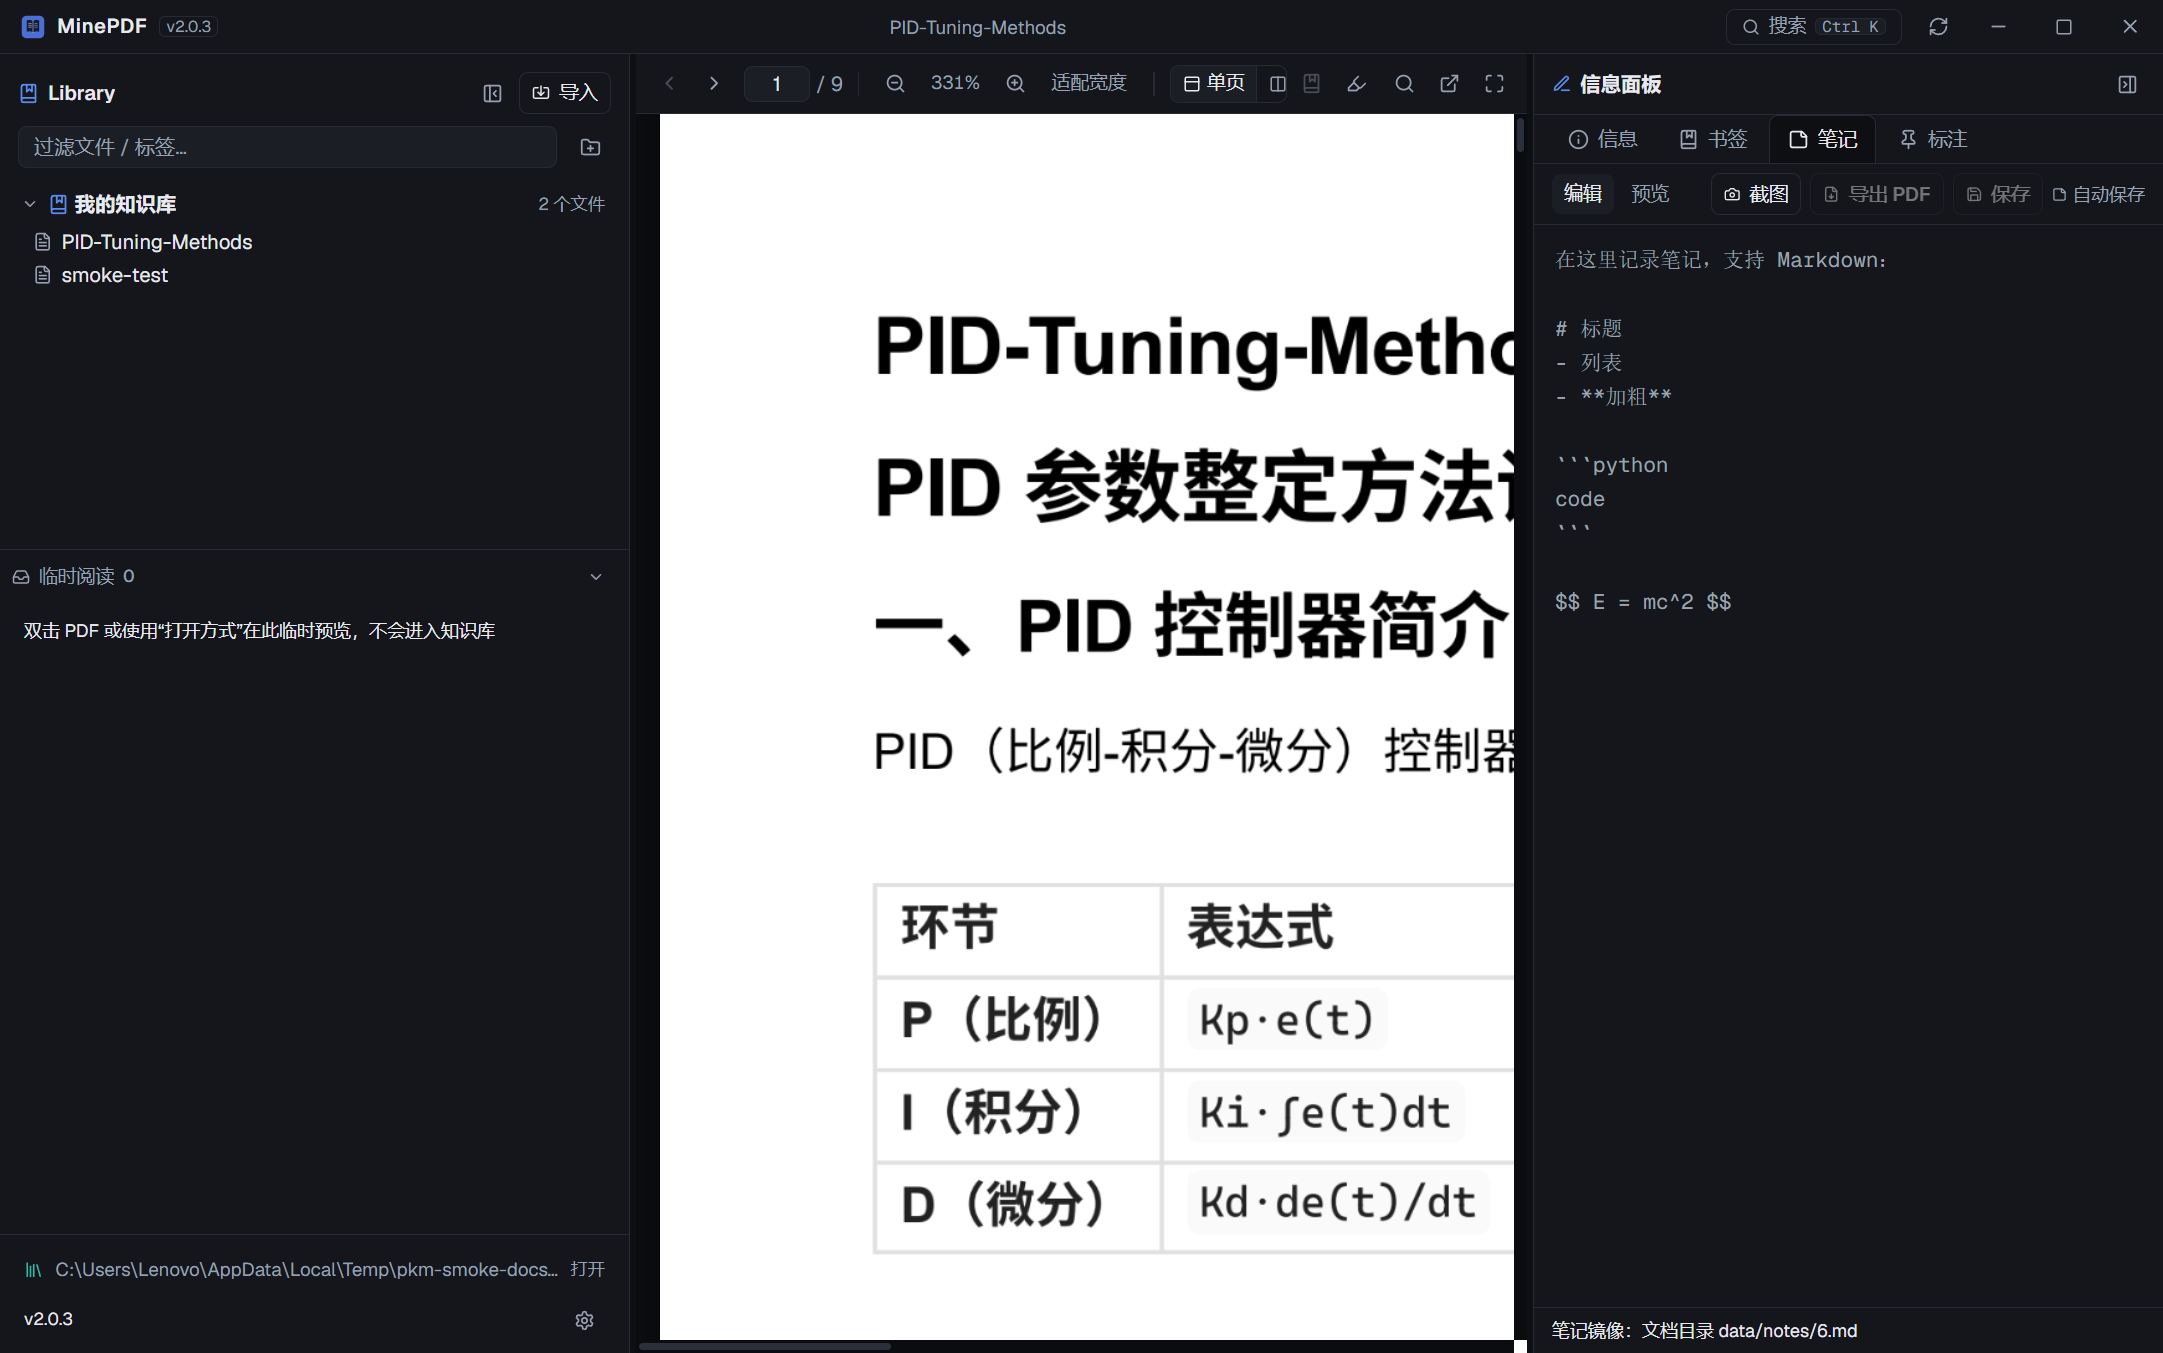
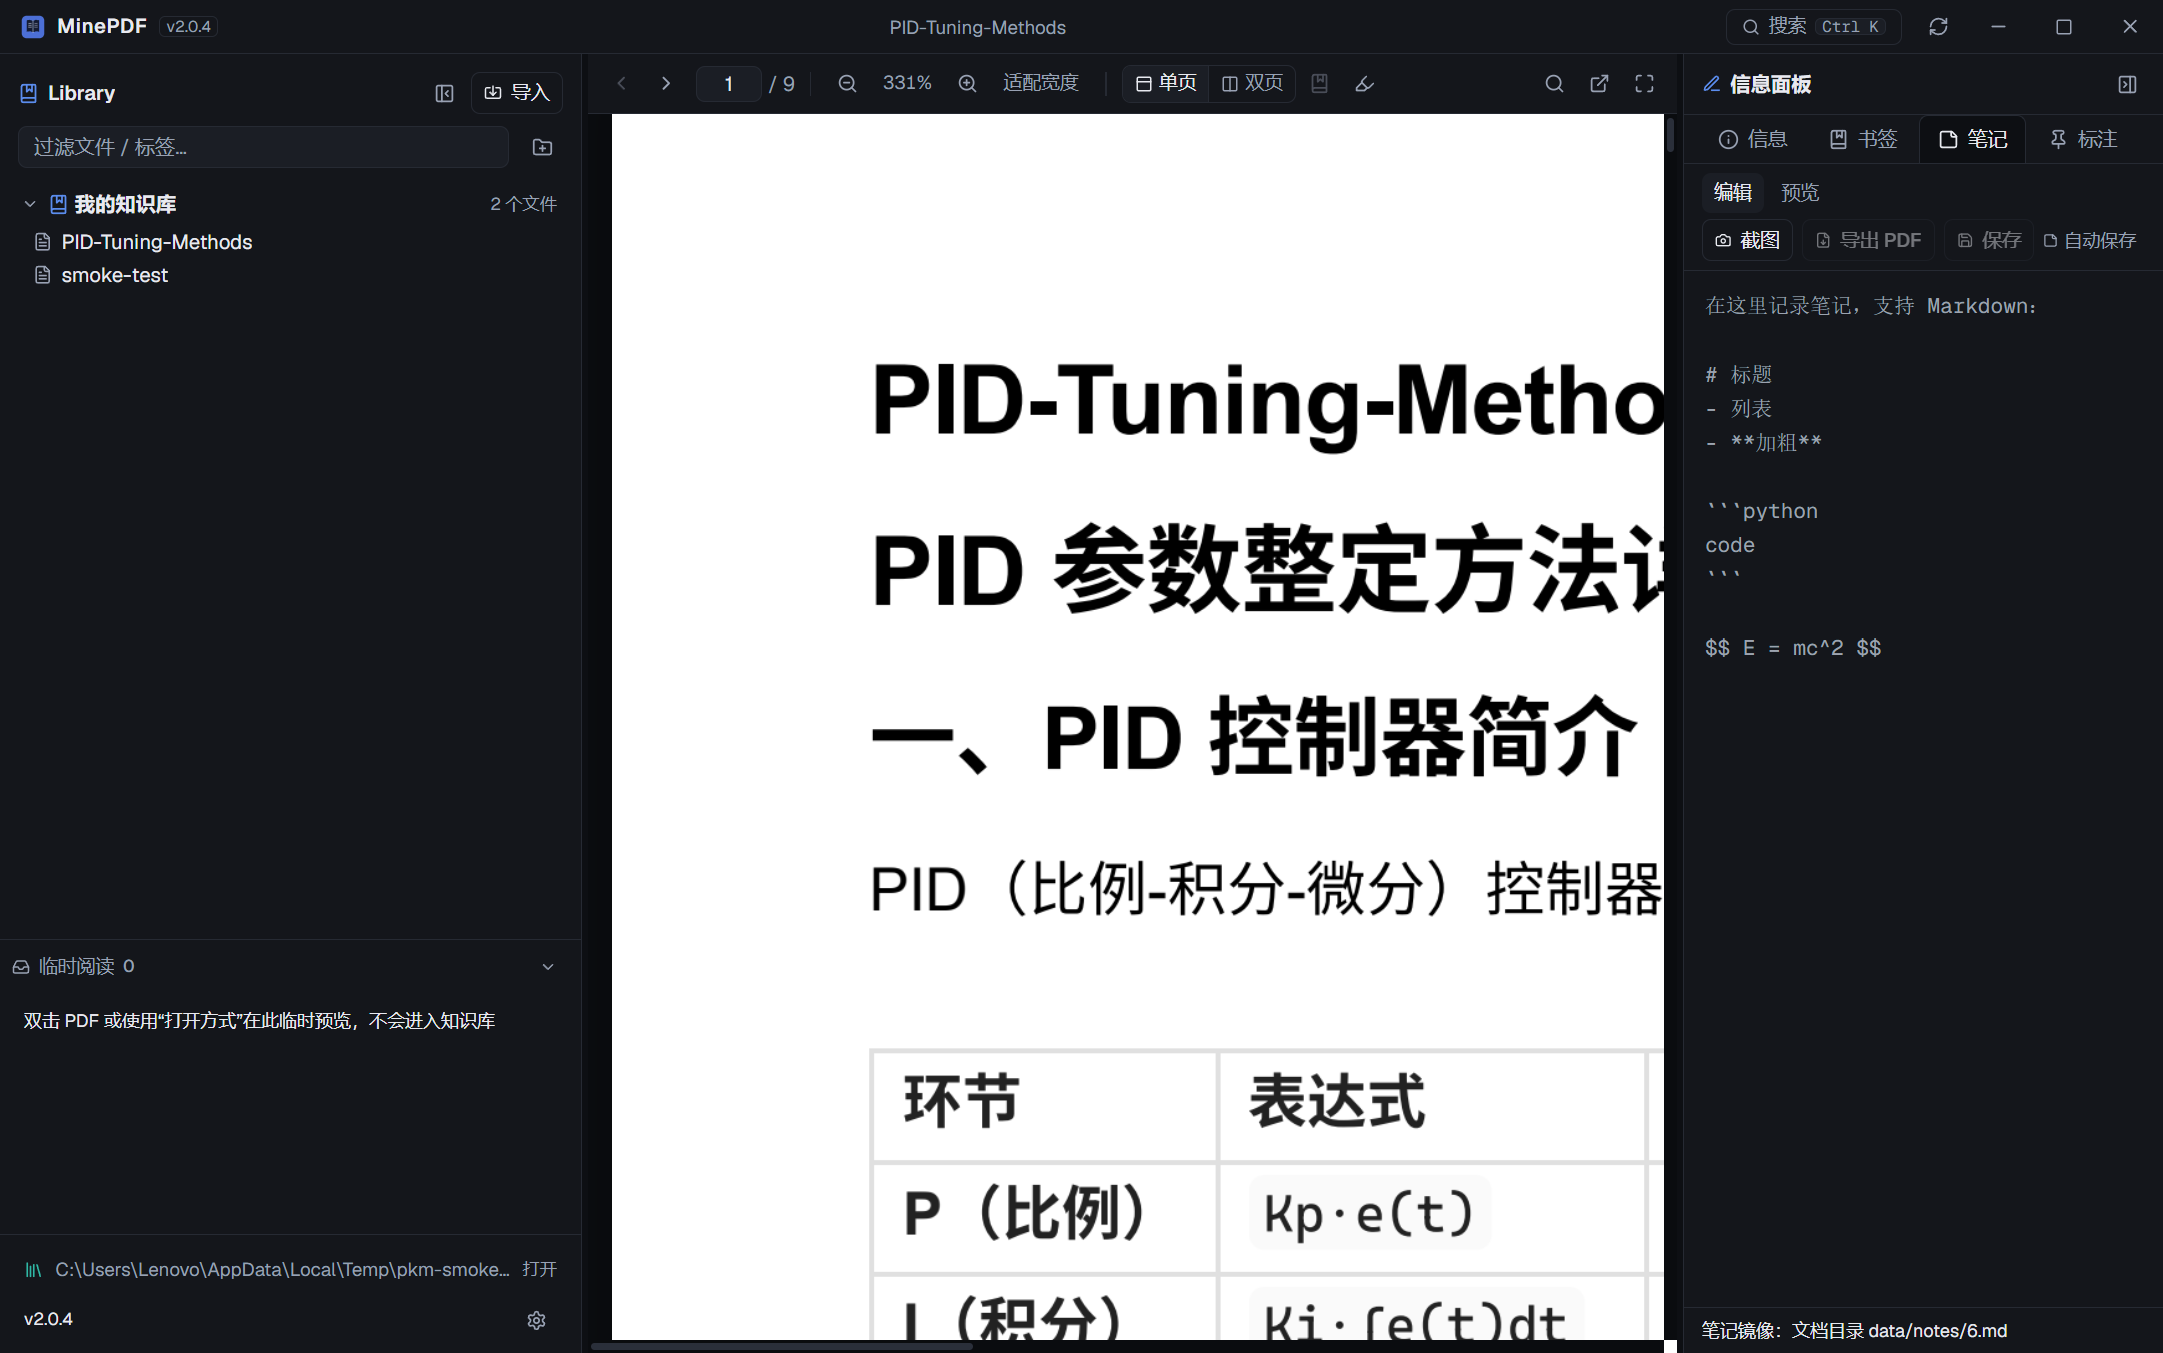
release: v2.0.5 - 修复 PDF 内容绘制缩放 bug（内容满幅、两页连接）

diff --git a/electron/main.ts b/electron/main.ts
@@ -393,6 +393,44 @@ async function createMainWindow(): Promise<BrowserWindow> {
                   })()
                 `);
                 console.log('[capture] geomDiag', JSON.stringify(geomDiag));
+                // 内容布局诊断：canvas 内部非白像素的包围盒（验证页面内容实际显示大小/位置）
+                const contentDiag = await win.webContents.executeJavaScript(`
+                  (() => {
+                    const canvas = document.querySelector('.pdf-page-sheet canvas');
+                    if (!canvas || !canvas.width) return { canvas: false };
+                    const ctx = canvas.getContext('2d');
+                    const data = ctx.getImageData(0, 0, canvas.width, canvas.height).data;
+                    let minX = Infinity, minY = Infinity, maxX = -1, maxY = -1, count = 0;
+                    let transparent = 0;
+                    for (let y = 0; y < canvas.height; y++) {
+                      for (let x = 0; x < canvas.width; x++) {
+                        const i = (y * canvas.width + x) * 4;
+                        const a = data[i + 3];
+                        if (a === 0) transparent++;
+                        if (a > 200 && (data[i] < 245 || data[i + 1] < 245 || data[i + 2] < 245)) {
+                          if (x < minX) minX = x;
+                          if (x > maxX) maxX = x;
+                          if (y < minY) minY = y;
+                          if (y > maxY) maxY = y;
+                          count++;
+                        }
+                      }
+                    }
+                    const cssW = parseFloat(canvas.style.width);
+                    const cssH = parseFloat(canvas.style.height);
+                    return {
+                      backing: canvas.width + 'x' + canvas.height,
+                      css: cssW + 'x' + cssH,
+                      contentBackingBox: 'x:[' + minX + ',' + maxX + '] y:[' + minY + ',' + maxY + ']',
+                      contentBackingSize: (maxX - minX + 1) + 'x' + (maxY - minY + 1),
+                      contentCssSize: Math.round((maxX - minX + 1) * cssW / canvas.width) + 'x' + Math.round((maxY - minY + 1) * cssH / canvas.height),
+                      ratio: +(canvas.width / cssW).toFixed(2),
+                      fillRatio: +((maxX - minX + 1) * (maxY - minY + 1) / (canvas.width * canvas.height)).toFixed(3),
+                      transparentPct: +(100 * transparent / (canvas.width * canvas.height)).toFixed(1),
+                    };
+                  })()
+                `);
+                console.log('[capture] contentDiag', JSON.stringify(contentDiag));
                 // 方案 B 验证：把边栏/信息面板拖窄后，标签文字应自动隐藏（只剩图标）
                 const narrowDiag = await win.webContents.executeJavaScript(`
                   (async () => {

diff --git a/src/components/Viewer/PdfPage.tsx b/src/components/Viewer/PdfPage.tsx
@@ -172,7 +172,9 @@ export function PdfPage({
     canvas.style.height = `${cssH}px`;
     const ctx = canvas.getContext('2d');
     if (!ctx) return;
-    ctx.drawImage(bitmap, 0, 0, bitmap.width, bitmap.height, 0, 0, cssW, cssH);
+    // 1:1 填满画布内部（内部尺寸 = 位图尺寸），CSS 缩放由浏览器处理。
+    // 之前误用 cssW/cssH 作为目标尺寸，导致内容被压缩到左上 2/3 区域。
+    ctx.drawImage(bitmap, 0, 0);
   }
 
   /** 文本层 + 链接层（PDF.js，两套渲染路径共用） */
